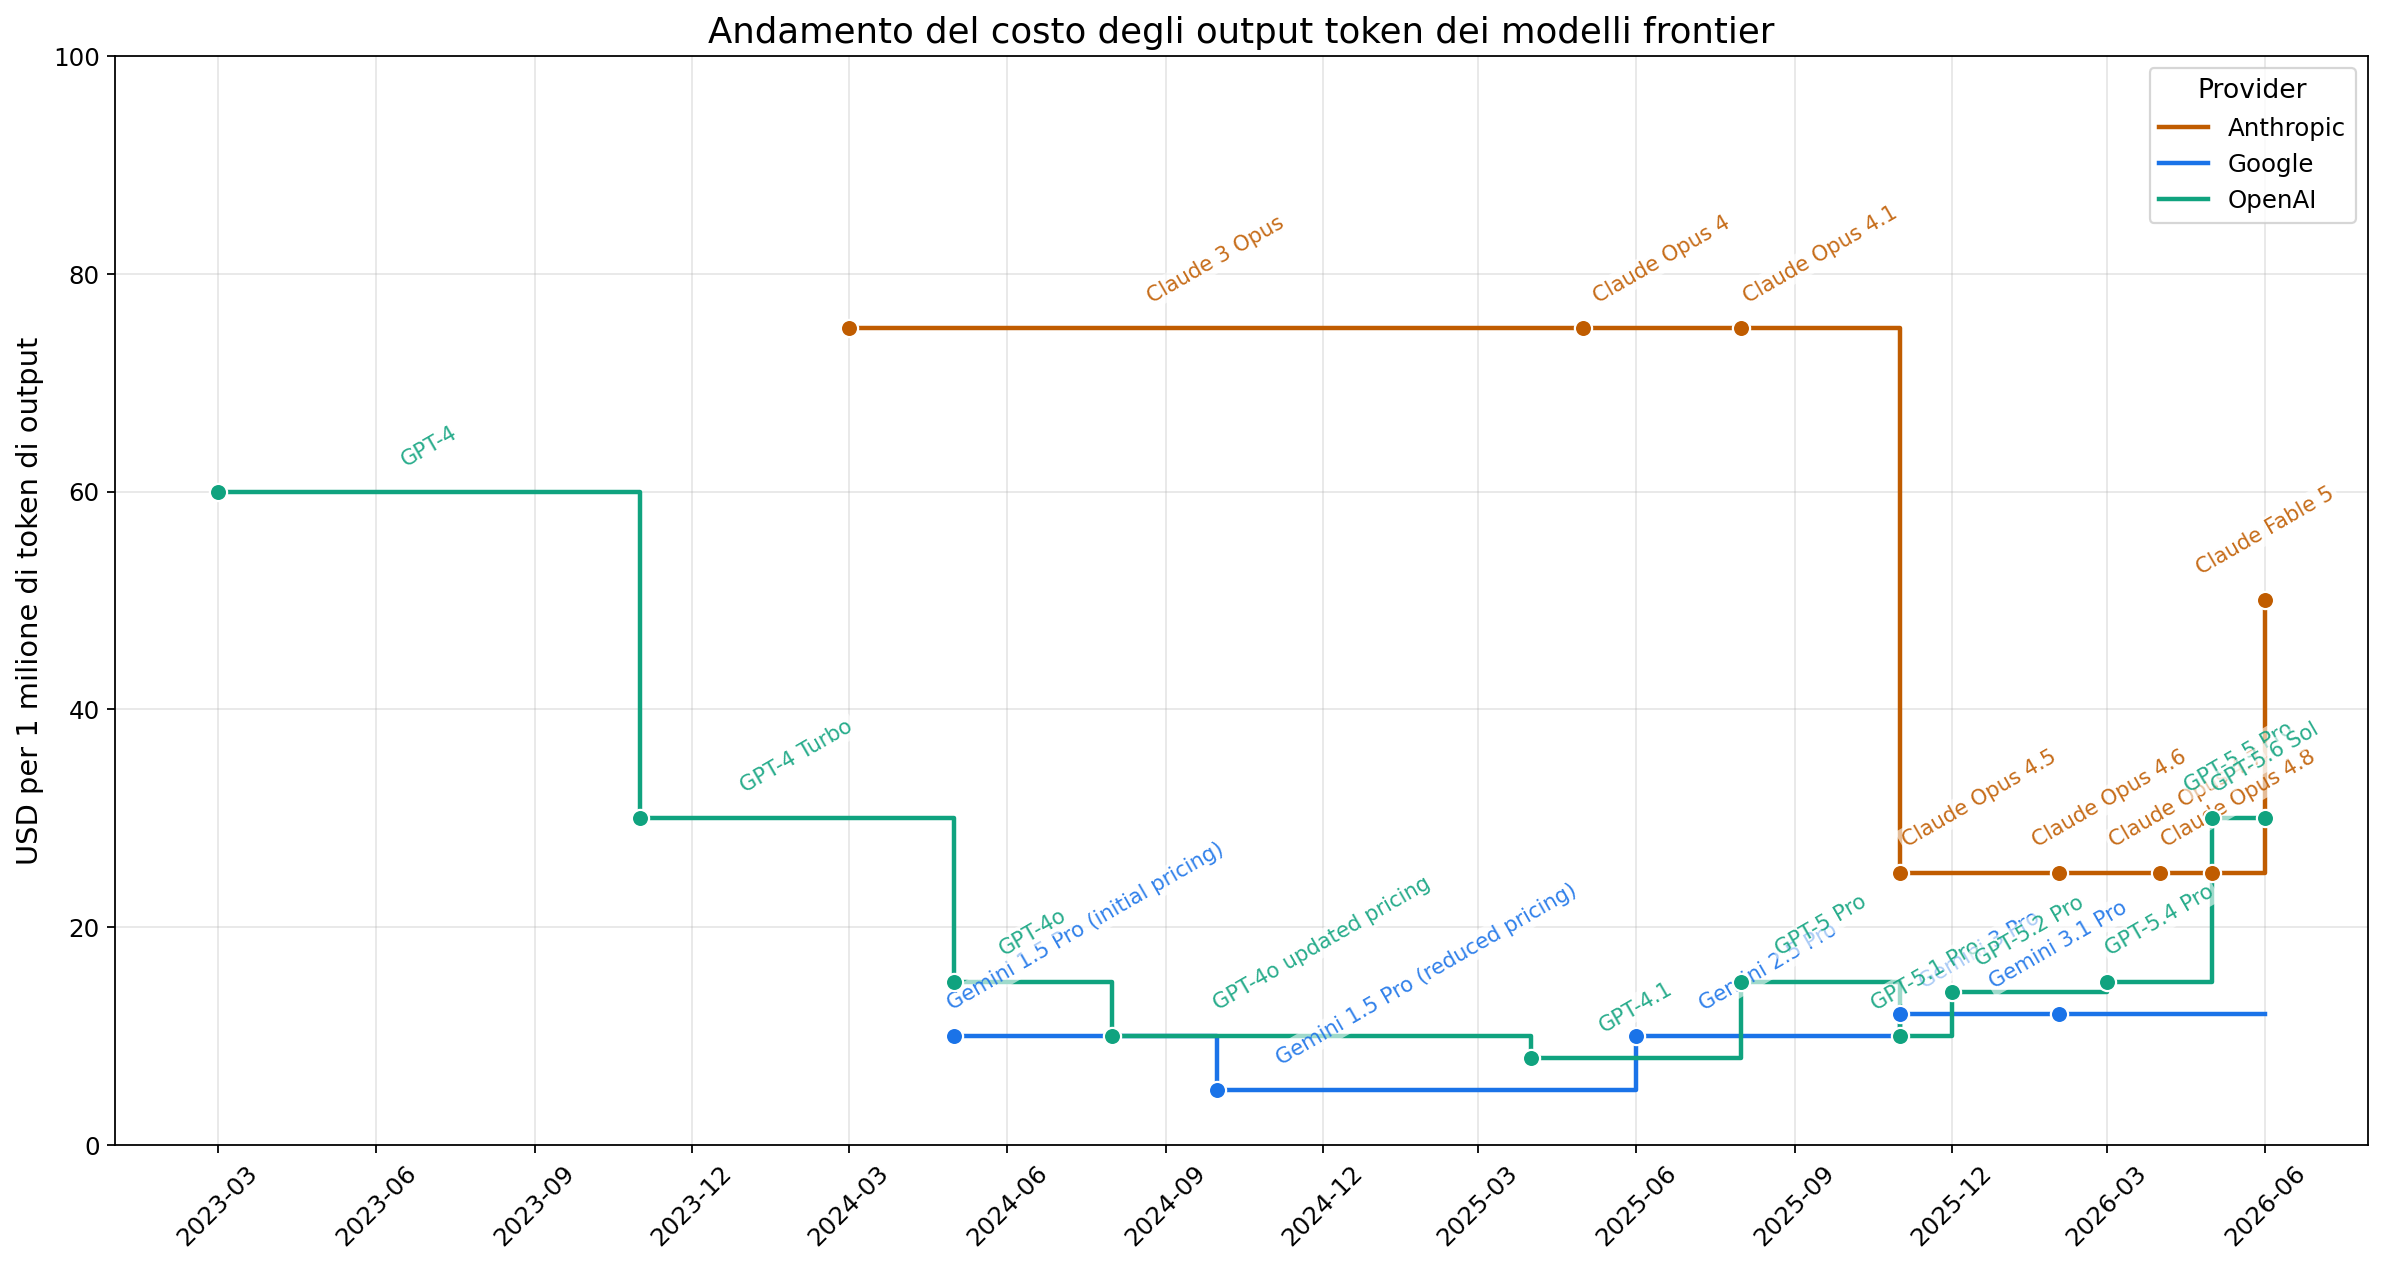
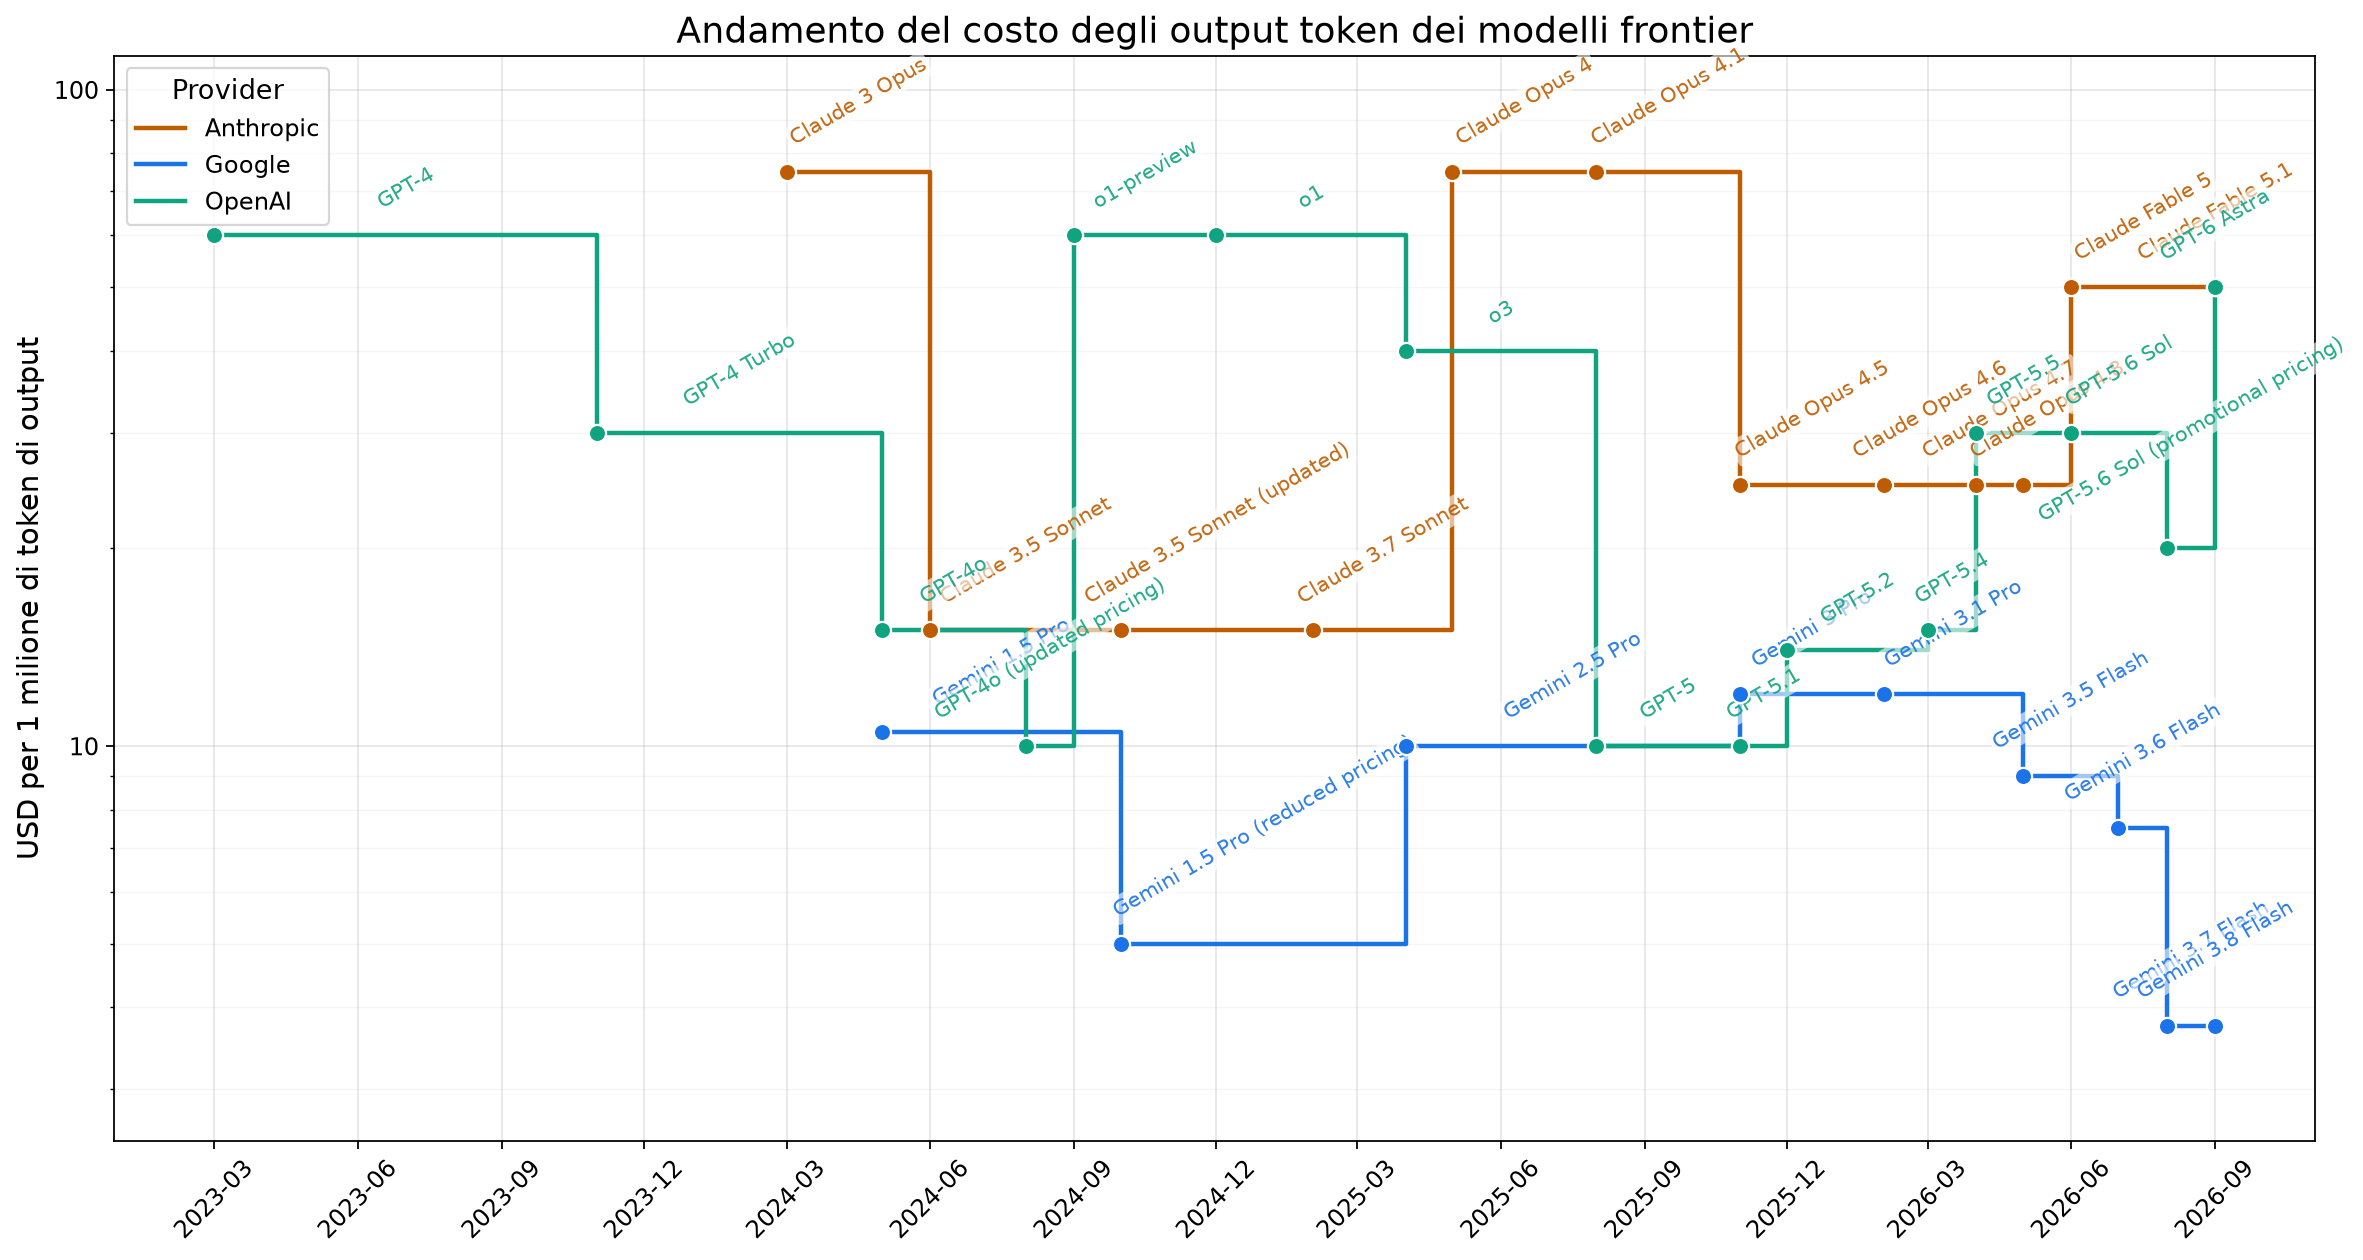
New models added to the series

diff --git a/_posts/2026-09-05-costi-unitari-intelligenza-consumo.md b/_posts/2026-09-05-costi-unitari-intelligenza-consumo.md
@@ -1,0 +1,112 @@
+---
+layout: post
+title: "I costi unitari dell'intelligenza a consumo"
+date: 2026-09-05
+categories: [artificial-intelligence]
+tags: [ai, generative-ai, llm, pricing, token]
+math: false
+author: Stefano Cazzella
+excerpt: "Una lettura dei prezzi per token dei modelli di frontiera: perché sono difficili da confrontare, come si sono mossi OpenAI, Anthropic e Google, e perché il costo unitario non basta a spiegare il costo complessivo dell'AI nei progetti."
+---
+
+Il prezzo dei token è diventato una delle misure più citate quando si parla del costo della Generative AI. È comodo, apparentemente oggettivo e facile da mettere in una tabella: dollari per milione di token in input, dollari per milione di token in output.
+
+Ma il token è in realtà l'unità minima del flusso di informazioni (più o meno ridondanti) scambiate con il modello, **non l'unità minima del valore del servizio** offerto dal modello stesso. Due modelli con prezzi simili possono comportarsi in modo molto diverso; due modelli con prezzi molto differenti possono invece produrre costi comparabili sullo stesso workflow, se quello più capace richiede meno iterazioni, meno correzioni o meno orchestrazione.
+
+Ciononostante è comunque interessante osservare come stanno evolvendo i listini, perché offrono lo spunto per riflettere sull'efficienza tecnologica e sulle strategie commerciali dei principali provider.
+
+Ho quindi provato a confrontare l'evoluzione del prezzo dei modelli di frontiera di OpenAI, Anthropic e Google, concentrandomi sul costo dei token di output (quelli più direttamente associabili al concetto di produzione di contenuti/erogazione di un servizio).
+
+## Perché confrontare i costi dei token è difficile
+
+Il primo problema è che non tutti i token sono uguali e il loro costo dipende da molteplici fattori.
+
+Questo non soltanto perché i provider utilizzano tokenizer differenti per cui la stessa frase può essere codificata in modi diversi (e con un numero di token diverso), ma anche perché il pricing è diventato molto più articolato. Cache, batch, priority o flex processing, long context, data residency, grounding e tool specifici introducono tariffe differenti. Il list price input/output è quindi soltanto il primo livello della funzione di costo.
+
+La finestra di contesto aggiunge un'ulteriore variabile: alcuni modelli applicano tariffe differenti oltre determinate soglie. Nei workload basati su grandi documenti, codebase o conversazioni persistenti, questa differenza può diventare significativa.
+
+Ci sono poi molteplici altri fattori che determinano il reale costo progettuale della AI Generativa a partire dall'architettura dell'applicazione con retrieval, tool calling, contesto ripetuto, verifiche automatiche e soprattutto workflow agentici che moltiplicano chiamate e token consumati.
+
+Per questo il prezzo per token non può essere utilizzato direttamente come misura del costo di un progetto. Può però essere un buon indicatore per osservare come i provider stanno prezzando l'accesso alla frontiera tecnologica.
+
+## La serie storica dei modelli frontier
+
+Partiamo dall'approccio utilizzato per ricostruire delle curve di prezzo dei modelli frontier che potessero essere utili a evidenziare i trend, le evoluzioni tecnologiche e le strategie commerciali dei principali provider.
+
+Nella ricostruzione delle curve di prezzo, per ciascun provider ho considerato, in ciascun momento temporale, il modello general-purpose o di reasoning di massima capacità effettivamente disponibile attraverso una API commerciale, sulla base del posizionamento del vendor e delle prestazioni pubblicate.
+
+Non ho quindi necessariamente seguito una specifica nomenclatura dei modelli: se una versione di Sonnet supera le capacità del precedente modello Opus, oppure l'evoluzione della linea Flash supera il precedente Pro, ho considerato il nuovo modello posizionato dal vendor stesso come il modello di frontiera del momento. 
+
+Come indicatore economico ho adottato il list price standard per milione di token di output, escludendo Batch, Priority e altre modalità particolari e utilizzando, dove previsto, il tier standard della finestra di contesto.
+
+![Curva dei prezzi per milione di token di output dei modelli di frontiera, in scala logaritmica](/images/posts/2026/frontier_models_costs.png)
+
+L'asse verticale è in **scala logaritmica**: ogni tacca corrisponde a un ordine di grandezza nel prezzo per milione di token di output. È un dettaglio importante, perché la scala comprime visivamente distanze che in realtà sono molto grandi. La separazione tra la fascia di OpenAI e Anthropic - che per gran parte del periodo si muovono tra i 15 e i 75 dollari - e quella di Google - che scende fino a pochi dollari - sul grafico sembra contenuta, ma in scala lineare corrisponderebbe a un divario di quasi un intero ordine di grandezza.
+
+Il grafico evidenzia alcune dinamiche interessanti: le curve non si comportano tutte nello stesso modo e non sempre il modello più nuovo costa meno del precedente.
+
+## Tre curve, tre strategie
+
+Le tre serie mostrano che la riduzione del costo dei modelli di frontiera non segue una traiettoria unica. OpenAI ha alternato fasi di forte compressione del prezzo a fasi di riposizionamento verso l’alto. Dopo la discesa GPT-4 → GPT-4 Turbo → GPT-4o, l’arrivo dei reasoning model riporta temporaneamente il costo della frontiera su livelli più elevati; con GPT-5 la capacità di reasoning viene progressivamente riassorbita nel flagship general-purpose a prezzi molto più bassi. GPT-5.6 Sol prosegue questa normalizzazione, mentre GPT-6 Astra, a $50/M output, introduce un nuovo riposizionamento premium. La curva OpenAI appare quindi come il risultato di una continua ricerca del punto di equilibrio tra capacità di punta, inference compute e monetizzazione.
+
+Anthropic segue una politica più stabile e segmentata. La frontiera passa da Opus a Sonnet quando quest’ultimo raggiunge prestazioni superiori a un prezzo molto più basso, per poi tornare verso tier premium con Opus 4 e successivamente Fable. La dinamica suggerisce una strategia in cui le riduzioni di costo ottenute da una generazione non vengono necessariamente trasferite in modo permanente al modello di punta: una parte dell’efficienza viene utilizzata per creare nuovi livelli di capacità e mantenere una chiara differenziazione commerciale tra i tier.
+
+La traiettoria di Google è invece **nettamente più deflazionistica**. La frontiera passa dalla famiglia Pro a Flash mentre le prestazioni continuano a crescere e il prezzo degli output token scende fino a pochi dollari per milione. Il dato è particolarmente significativo perché i benchmark non mostrano un divario di capacità proporzionale al divario di prezzo: Gemini rimane un modello efficace, con costi e throughput molto più favorevoli. Google sembra quindi competere meno sulla monetizzazione dell’ultimo incremento di capacità e più sulla compressione sistematica del costo della capacità frontier, probabilmente favorita dalla scala, dall’integrazione verticale dello stack e dalla possibilità di valorizzare Gemini attraverso un ecosistema di prodotti molto più ampio.
+
+## Google gioca una partita diversa
+
+La dinamica dei prezzi di Google merita qualche riflessione aggiuntiva.
+
+Il confronto con benchmark prestazionali indipendenti suggerisce che Google non stia ottenendo quel prezzo molto più basso semplicemente offrendo un modello molto meno capace. Prendendo come riferimento l'[Artificial Analysis Intelligence Index](https://artificialanalysis.ai/articles/artificial-analysis-intelligence-index-v4-2), nelle configurazioni a elevato reasoning effort il quadro attuale è approssimativamente questo:
+
+| Modello, effort elevato     | AA Intelligence Index v4.2 | Output price | Output speed |
+| --------------------------- | -------------------------: | -----------: | -----------: |
+| **Claude Fable 5.1 – max**  |                     **57** |    **$50/M** |    ~67 tok/s |
+| **GPT-6 Astra – max**       |                     **55** |    **$50/M** |    ~73 tok/s |
+| **Gemini 3.8 Flash – high** |                     **47** |  **$3.75/M** |   ~311 tok/s |
+
+Google quindi **non è al vertice della classifica** e il distacco prestazionale non è trascurabile, ma rimane molto più contenuto rispetto al divario economico. Inoltre ha un throughput (velocità di generazione degli output) significativamente superiore ai diretti concorrenti. È una scelta particolarmente rilevante per workload ad alto volume e sistemi agentici, dove una singola attività può generare decine o centinaia di chiamate al modello.
+
+## Dietro i prezzi ci sono strutture economiche diverse
+
+Una possibile spiegazione delle tre curve sta anche nella diversa struttura economica dei provider.
+
+OpenAI e Anthropic sono aziende sostanzialmente **AI-native**, nelle quali modelli, API e prodotti costruiti sopra i modelli rappresentano il core business dell'azienda. Nel 2026 entrambe hanno anche presentato la documentazione preliminare per una possibile IPO, pur senza definire necessariamente tempi definitivi per la quotazione. È ragionevole aspettarsi una crescente attenzione alla capacità di dimostrare eccellenza tecnologica nei modelli di frontiera sempre più avanzati, efficienza operativa e capacità di monetizzazione.
+
+Obiettivo principale è dimostrare la sostenibilità economica futura dell'enorme investimento in compute. La corsa al modello più avanzato richiede infatti ingenti risorse computazionali che sono oggi nella disponibilità di pochi grandi provider di hardware specializzato (come NVIDIA, AMD e la stessa Google) e datacenter su larga scala (hyperscale).
+
+NVIDIA è stata fondamentale per la crescita di OpenAI, ma l'azienda sta costruendo un portafoglio molto più diversificato che comprende Microsoft, AWS, AMD, Broadcom, CoreWeave, Oracle e altri provider e sta sviluppando propri acceleratori insieme a Broadcom. Anthropic segue a sua volta una strategia multi-hardware: utilizza AWS Trainium, Google TPU e NVIDIA GPU, con AWS come principale cloud e training partner.
+
+I legami fra queste aziende sono così stretti e intricati (tipicamente caratterizzati da partecipazioni incrociate e contratti circolari) da temere che la caduta di uno di questi attori possa avere effetti a catena sull'intero ecosistema facendo scoppiare la cosiddetta bolla della AI [ma questo è argomento per un altro post].
+
+Google parte però da una posizione strutturalmente differente.
+
+Alphabet dispone di fonti di ricavo molto diversificate — Search e advertising, YouTube, Cloud, Workspace, subscription — e Gemini può produrre valore non soltanto attraverso le API, ma aumentando competitività e ricavi dell'intero ecosistema.
+
+Inoltre Google controlla una porzione più ampia dello stack tecnologico. Accanto alle GPU NVIDIA, progetta da dieci anni le proprie TPU, oggi utilizzate per il training e il serving di Gemini su larga scala. Alphabet dichiara che nel solo 2025 le ottimizzazioni di modello, infrastruttura e utilizzo hanno ridotto del 78% il costo unitario di serving di Gemini.
+
+È quindi plausibile — non dimostrabile dal solo listino — che il pricing aggressivo di Gemini rifletta la combinazione di integrazione verticale, economie di scala e possibilità di monetizzare l'AI indirettamente attraverso altri business.
+
+Google può avere, in altre parole, una strategia e una funzione obiettivo diversa da quella di un pure player dei foundation model. Anche la complessa struttura del gruppo Alphabet può mettere in atto strategie diversificate che investono in filoni di ricerca alternativi (es. i world model sperimentati da DeepMind) senza puntare all'eccellenza di un unico modello e senza compromettere la trasformazione agentica del proprio core business.
+
+## Domanda più veloce dell'offerta
+
+Quando le tecnologie maturano e si diffondono su larga scala diventano più efficienti, il loro costo unitario tende a scendere e le soluzioni più avanzate producono risultati migliori a parità di costo.
+
+Questo sta avvenendo anche nel caso dell'AI generativa (capacità che pochi anni fa erano disponibili soltanto nei modelli più costosi vengono progressivamente offerte da modelli molto più economici), ma non per i modelli di frontiera la cui realizzazione richiede ingenti risorse computazionali su larga scala. Uno dei temi da non trascurare per il prossimo futuro è costituito dall'equilibrio tra domanda e capacità di offerta. 
+
+La domanda sta effettivamente crescendo e le sempre migliori abilità dei modelli ampliano gli ambiti di utilizzo effettivo e conseguentemente la domanda. Probabilmente però siamo solo agli inizi di una crescita esponenziale di questa curva di domanda: ad oggi la capacità delle aziende di introdurre tali tecnologie in modo pervasivo nei propri processi operativi e decisionali è ancora limitata. Sono presenti molti ostacoli per una adozione diffusa (anche questo è un valido argomento per altro post), ma è ragionevole pensare che - con l'accelerazione del processo di trasformazione dei grandi player sotto la pressione dei nuovi outsider - presto la curva di domanda potrebbe impennarsi.
+
+Sull'altro fronte esistono limiti tecnologici, vincoli infrastrutturali e costi operativi che impediscono alla capacità di offerta di crescere altrettanto rapidamente quanto la domanda. Il primo fra tutti è la **disponibilità di hardware specializzato**, come GPU, TPU e RAM, necessarie per il training e il serving dei modelli su larga scala. A questo si aggiungono pariteticamente i costi energetici e gli impatti ambientali legati alla creazione di nuovi datacenter. Operazione che di per sé richiede tempi tecnici di realizzazione, investimenti significativi e pianificazione a lungo termine. Inoltre la costruzione di nuovi datacenter sempre più spesso sta incontrando resistenze locali, normative più stringenti e difficoltà nell'ottenere le autorizzazioni necessarie. Questi fattori contribuiscono a mantenere la capacità di offerta relativamente rigida nel breve periodo.
+
+Questo potenziale **squilibrio tra una domanda che potrebbe crescere velocemente e un'offerta che fatica a tenere il passo** può contribuire ad un aumento dei prezzi unitari dei modelli di frontiera. Aumento che sarebbe difficile da riassorbire nel breve termine, soprattutto per aziende AI-native come OpenAI e Anthropic, in cui gli enormi investimenti necessari per ampliare capacità computazionale e infrastruttura devono progressivamente tradursi in crescita dei ricavi e margini sostenibili, esigenza destinata a diventare ancora più visibile con l'eventuale quotazione in borsa.
+
+## Il prezzo del token non è il costo del risultato
+
+Il prezzo per token rimane un indicatore utile per osservare le politiche commerciali dei provider, ma non coincide con il costo reale di un task o di una soluzione. 
+
+Un modello più costoso può risultare economicamente preferibile se raggiunge il risultato con meno iterazioni, meno verifiche e minore intervento umano; al contrario, un modello molto più economico può essere imbattibile su workload semplici, ripetitivi o fortemente parallelizzabili. Con reasoning e sistemi agentici il confronto diventa ancora più complesso, perché il consumo dipende anche da pianificazione, tool use, retry, retrieval, caching, verifiche automatiche e cicli intermedi. Il parametro economicamente più significativo sarebbe quindi il **costo per task completato con il livello di qualità richiesto**. Tecniche di harnessing più sofisticate possono inoltre aumentare l'efficacia dei modelli più economici e ridurne il gap rispetto a quelli frontier. Per questo il prezzo per milione di token è una componente necessaria dell'analisi economica, ma va sempre inserita in una valutazione più ampia del costo complessivo e della qualità del risultato.
+
+Per chi costruisce prodotti o sperimenta innovazione, la domanda giusta non è quale modello costi meno per milione di token. La domanda più utile diventa quale combinazione di modello, architettura e processo produce il risultato desiderato al costo complessivo più prevedibile.
+
+
